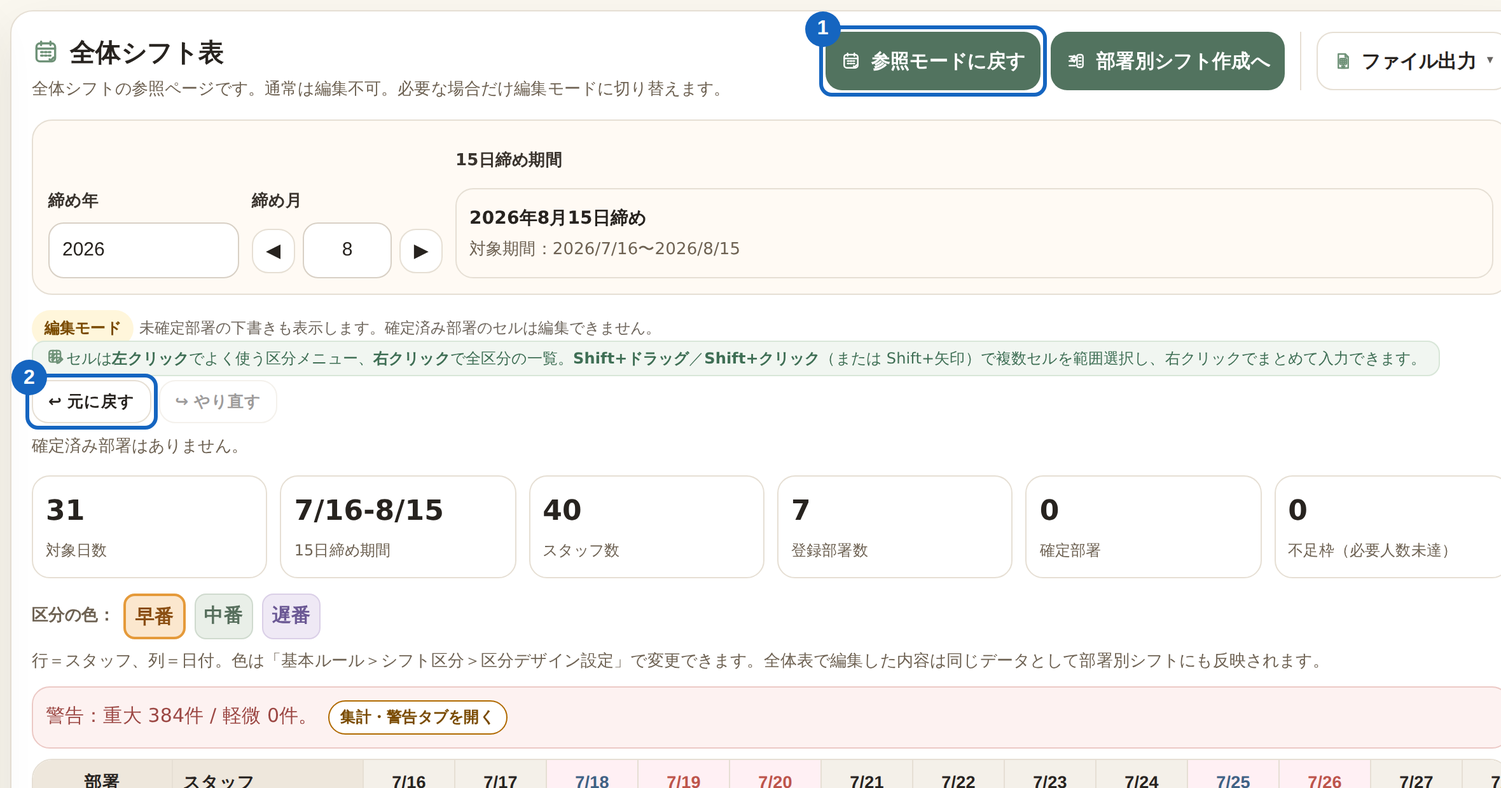
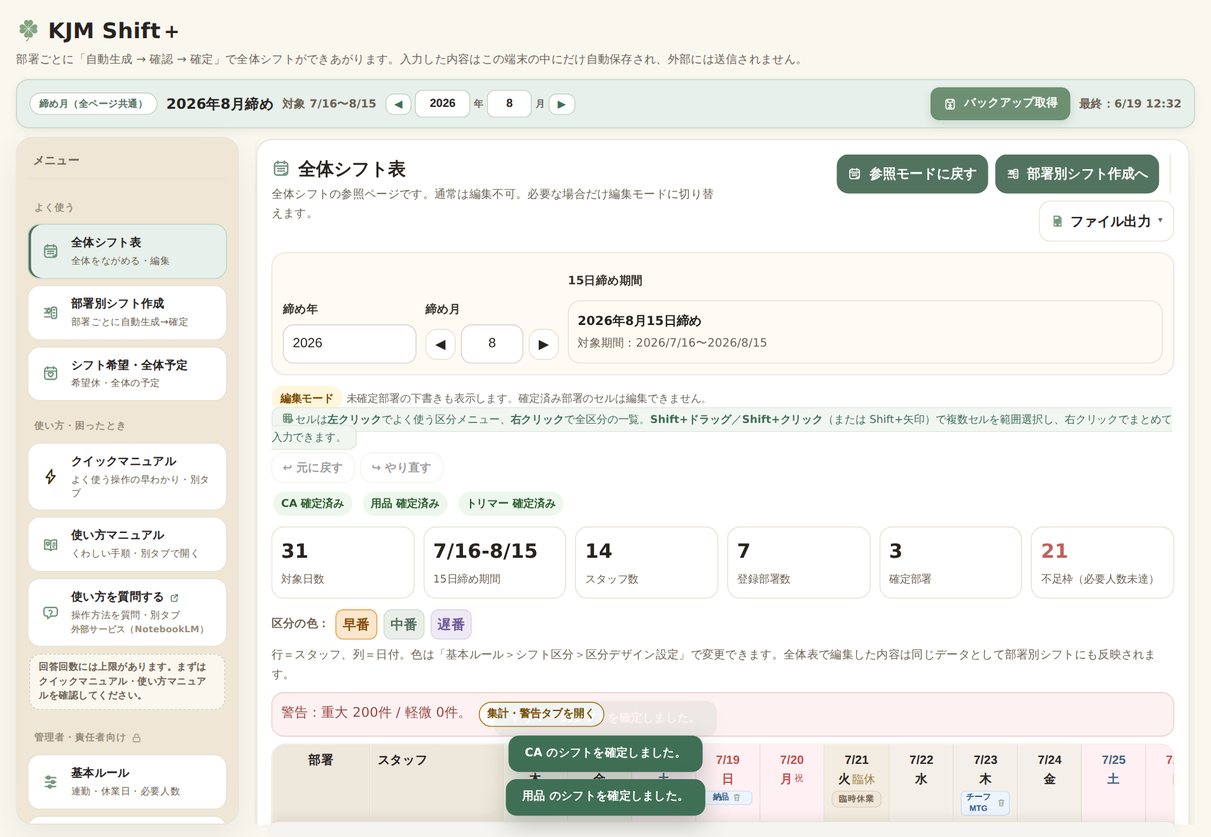
docs(manual): アプリ内マニュアル/クイックを最新UIに更新（上部固定バー・メニュー再編・自動生成）
最新の画面構成に合わせ、manual.html / quick.html の本文とスクリーンショットを更新。

【本文】
- 締め月：「左メニュー上部のバッジ」→「画面上部の作業バー」に統一（3章手順・4章・5章・18章・クイック手順1）
- バックアップ：作業バーの「バックアップ取得」を第一に案内し、フォルダ保存・復元・初期化は
  「バックアップ」画面、と役割を整理（16章・クイック手順8/店長手順3）。編集後の未取得表示にも言及
- 左メニュー：3グループ→4グループ。「管理者向け」→「管理者・責任者向け」、新グループ
  「使い方・困ったとき」（クイックマニュアル/使い方マニュアル/使い方を質問する）を追記（3章・5章）
- 文言統一：ユーザー向けの「自動作成」をすべて「自動生成」に（目次・7/10/11/12/18章・クイック）
- 13章：警告の「該当箇所へ移動」「未解消エラー」「許容済み（緑・件数除外）」を追記
- 8章：日付ヘッダーからの全体予定削除（編集モード）と、定期予定の「この日だけ削除」「元に戻す」を追記
- 1章トップ：作業バー＋左メニュー＋右操作画面の3領域・独立スクロールを説明

【スクリーンショット差し替え（assets/manual、サンプルデータ/9xxxx・PII無し）】
m-menu（4グループ・カードなし）, m-period（上部固定バー）, m-calendar（全体レイアウト）,
m-edit（編集モード）, m-deptbuild/q-deptgen（自動生成・確定・下書きチェック）,
q-check（セル内コメント＝朝そうじを下段に整列・早番は太枠でない・日付タグ削除アイコン）,
m-stats（未解消エラー・該当箇所へ移動）, m-event/m-closure/m-prefs, q-calendar-view, q-confirm,
m-appearance（早番＝オレンジ・規定は通常枠）。OS保存ダイアログ等の不変画面は据え置き

【ツール】scripts/capture-manual.js を追加（npm run screenshot:manual）。本体ロジックは変更なし。
全参照画像の存在・表示を確認、コンソールエラーなし。

Claude-Session: https://claude.ai/code/session_01VdcjUojQbh8dr2upE6sM1d

diff --git a/manual.html b/manual.html
@@ -69,7 +69,7 @@ ul.manList{margin:8px 0;padding-left:22px;font-size:15px;line-height:1.85}
         <a href="#man-8"><span class="mnNum">8</span>希望休・全体予定を入れる</a>
         <a href="#man-9"><span class="mnNum">9</span>臨時休業（店舗の休み）</a>
         <a href="#man-10"><span class="mnNum">10</span>部署別シフトを作る</a>
-        <a href="#man-11"><span class="mnNum">11</span>自動作成の便利な機能</a>
+        <a href="#man-11"><span class="mnNum">11</span>自動生成の便利な機能</a>
         <a href="#man-12"><span class="mnNum">12</span>部署別シフトを直す（編集）</a>
         <a href="#man-13"><span class="mnNum">13</span>警告を確認する</a>
         <a href="#man-14"><span class="mnNum">14</span>全体シフト表を見る・直す</a>
@@ -87,7 +87,7 @@ ul.manList{margin:8px 0;padding-left:22px;font-size:15px;line-height:1.85}
           <p class="manLead">KJM Shift＋は、お店のシフトを作るツールです。おもにこの5つができます。入力した内容はこの端末（パソコン）の中だけに自動で保存され、外部には送信されません。</p>
           <ul class="manList"><li>スタッフや希望休を登録する</li><li>部署ごとにシフトを自動で作る</li><li>作ったシフトを全体表で確認・修正する</li><li>シフトを印刷する</li><li>バックアップ（控え）を保存する</li></ul>
           <div class="manTip"><div class="manTipHead">自動保存です</div><p>「保存」ボタンを押さなくても、入力するたびに自動で保存されます。だからこそ、まちがいもすぐ保存されます。困ったら早めに直しましょう。</p></div>
-          <figure class="manFig"><img src="assets/manual/m-calendar.png" alt="全体シフト表の上部。編集モードにするボタンとファイル出力" loading="lazy" width="1180" height="488" style="max-width:1180px"><figcaption>これが最初に開く「全体シフト表」です。<b>①</b>編集モードにするボタン　<b>②</b>ファイル出力（印刷など）。※①と②の間にある「部署別シフト作成へ」は10章で使います。</figcaption></figure>
+          <figure class="manFig"><img src="assets/manual/m-calendar.png" alt="最初の画面。上部に作業バー（締め月・バックアップ）、左にメニュー、右に全体シフト表" loading="lazy" width="1180" style="max-width:1180px"><figcaption>これが最初に開く画面です。<b>上に作業バー（締め月・バックアップ）</b>、<b>左にメニュー</b>、<b>右に操作画面（全体シフト表）</b>が出ます。右画面の上に<b>①</b>編集モードにするボタン、<b>②</b>ファイル出力（印刷など）。左メニューと右画面はそれぞれスクロールできますが、作業バーは常に上に出ています。</figcaption></figure>
         </section>
 
         <section class="manChapter" id="man-2">
@@ -103,7 +103,7 @@ ul.manList{margin:8px 0;padding-left:22px;font-size:15px;line-height:1.85}
           <h3><span class="mnNum">3</span>毎月の流れ</h3>
           <p class="manLead">毎月の作業は、下の<b>手順1〜9</b>の順に進めます。番号（緑の丸）は「作業の順番」です。各手順の〔　〕内が、そのとき使う<b>左メニューの項目名</b>です（下の画像で位置を確認できます）。</p>
           <ol class="manSteps">
-            <li>締め月を確認する〔メニュー上部の締め月バッジ〕</li>
+            <li>締め月を確認する〔画面上部の作業バー〕</li>
             <li>（必要なら）スタッフ・基本ルールを確認する〔スタッフ／基本ルール〕</li>
             <li>希望休・全体予定を入れる〔シフト希望・全体予定〕</li>
             <li>部署別シフトを作成する〔部署別シフト作成〕</li>
@@ -113,28 +113,33 @@ ul.manList{margin:8px 0;padding-left:22px;font-size:15px;line-height:1.85}
             <li>印刷する〔全体シフト表 →ファイル出力〕</li>
             <li>バックアップを取る〔バックアップ〕</li>
           </ol>
-          <figure class="manFig"><img src="assets/manual/m-menu.png" alt="左メニュー。よく使う（全体シフト表・部署別シフト作成・シフト希望/全体予定・使い方/クイックマニュアル）／管理者向け（基本ルール・スタッフ・集計/警告・バックアップ）／店長のみ（OBIC連携用）" loading="lazy" width="266" height="1156" style="max-width:266px"><figcaption>左メニューです。上から<b>締め月バッジ</b>、<b>バックアップ取得</b>、そして<b>「よく使う」「管理者向け（鍵マーク）」「店長のみ（鍵マーク）」</b>の3グループに項目が並びます（鍵マークはチーフ以上・店長向け）。「使い方マニュアル」「クイックマニュアル」もこのメニューから開けます。今いる画面は色が濃くなります。</figcaption></figure>
+          <figure class="manFig"><img src="assets/manual/m-menu.png" alt="左メニュー。よく使う（全体シフト表・部署別シフト作成・シフト希望/全体予定）／使い方・困ったとき（クイックマニュアル・使い方マニュアル・使い方を質問する）／管理者・責任者向け（基本ルール・スタッフ・集計/警告・バックアップ）／店長のみ（OBIC連携用）" loading="lazy" width="300" style="max-width:300px"><figcaption>左メニューです。<b>「よく使う」「使い方・困ったとき」「管理者・責任者向け（鍵マーク）」「店長のみ（鍵マーク）」</b>の4グループに項目が並びます（鍵マークはチーフ以上・店長向け）。クイックマニュアル・使い方マニュアル・使い方を質問するは「使い方・困ったとき」にあります。<b>締め月とバックアップ取得は左メニューではなく、画面上部の作業バー</b>にあります。今いる画面は色が濃くなります。</figcaption></figure>
         </section>
 
         <section class="manChapter" id="man-4">
           <h3><span class="mnNum">4</span>締め月の見方</h3>
           <p class="manLead">このツールは「15日締め」です。作業の前に、画面の締め月が正しいか必ず確認します。</p>
           <ul class="manList"><li>8月度のシフト → 7月16日 〜 8月15日</li><li>9月度のシフト → 8月16日 〜 9月15日</li></ul>
-          <div class="manTip"><div class="manTipHead">月の変え方</div><p>左メニュー上の締め月バッジの <b>◀ ▶</b> で月を変えます。ここを変えると全部の画面が同じ月に切り替わります。</p></div>
-          <figure class="manFig"><img src="assets/manual/m-period.png" alt="締め月バッジ。前後の月へ動かす◀▶の矢印" loading="lazy" width="276" height="174" style="max-width:276px"><figcaption><b>①</b>締め月バッジ。◀ ▶ で締め月を前後に動かせます。</figcaption></figure>
+          <div class="manTip"><div class="manTipHead">月の変え方</div><p>画面上部の<b>作業バー</b>にある締め月の <b>◀ ▶</b> で月を変えます。ここを変えると全部の画面が同じ月に切り替わります（作業バーはどの画面でも上に出ています）。</p></div>
+          <figure class="manFig"><img src="assets/manual/m-period.png" alt="画面上部の作業バー。締め月・対象期間・前後へ動かす◀▶・バックアップ取得ボタン" loading="lazy" width="820" style="max-width:820px"><figcaption>画面上部の<b>作業バー</b>です。<b>①</b>締め月と対象期間　<b>②</b>◀ ▶ で前後の締め月へ　<b>③</b>右側の「バックアップ取得」（状態も表示）。どの画面でも常に表示されます。</figcaption></figure>
         </section>
 
         <section class="manChapter" id="man-5">
           <h3><span class="mnNum">5</span>画面の見方（左メニュー）</h3>
-          <p class="manLead">左のメニューで画面を切り替えます。メニューは<b>「よく使う」「管理者向け（鍵マーク）」「店長のみ（鍵マーク）」</b>の3つに分かれています。鍵マークの付いたグループは、おもにチーフ以上・店長が使う設定です。それぞれの役割はこちらです。</p>
+          <p class="manLead">左のメニューで画面を切り替えます。メニューは<b>「よく使う」「使い方・困ったとき」「管理者・責任者向け（鍵マーク）」「店長のみ（鍵マーク）」</b>の4つに分かれています。鍵マークの付いたグループは、おもにチーフ以上・店長が使う設定です。<b>締め月とバックアップ取得は、メニューではなく画面上部の作業バー</b>にあります。それぞれの役割はこちらです。</p>
           <p><b>よく使う</b></p>
           <ul class="manList">
             <li><b>全体シフト表</b>：全員のシフトをまとめて見る・直す</li>
             <li><b>部署別シフト作成</b>：部署ごとに自動で作って確定する</li>
             <li><b>シフト希望・全体予定</b>：希望休や店舗予定を入れる</li>
-            <li><b>使い方マニュアル／クイックマニュアル</b>：この説明ページを別タブで開く</li>
           </ul>
-          <p><b>管理者向け（鍵マーク・おもにチーフ以上）</b></p>
+          <p><b>使い方・困ったとき</b></p>
+          <ul class="manList">
+            <li><b>クイックマニュアル</b>：よく使う操作の早わかり（別タブ）</li>
+            <li><b>使い方マニュアル</b>：このくわしい説明ページ（別タブ）</li>
+            <li><b>使い方を質問する</b>：操作方法を質問できる外部サービス（NotebookLM・別タブ）</li>
+          </ul>
+          <p><b>管理者・責任者向け（鍵マーク・おもにチーフ以上）</b></p>
           <ul class="manList">
             <li><b>基本ルール</b>：連勤・必要人数・シフト区分・区分デザインなどの前提</li>
             <li><b>スタッフ</b>：スタッフの登録・変更</li>
@@ -145,7 +150,7 @@ ul.manList{margin:8px 0;padding-left:22px;font-size:15px;line-height:1.85}
           <ul class="manList">
             <li><b>【店長】OBIC連携用</b>：店長専用</li>
           </ul>
-          <figure class="manFig"><img src="assets/manual/m-menu.png" alt="左メニュー。よく使う／管理者向け（鍵マーク）／店長のみ（鍵マーク）のグループ" loading="lazy" width="266" height="1156" style="max-width:266px"><figcaption>左メニュー。上の一覧と同じ並びで、3つのグループに分かれています。今いる画面は色が濃くなります。</figcaption></figure>
+          <figure class="manFig"><img src="assets/manual/m-menu.png" alt="左メニュー。よく使う／使い方・困ったとき／管理者・責任者向け（鍵マーク）／店長のみ（鍵マーク）のグループ" loading="lazy" width="300" style="max-width:300px"><figcaption>左メニュー。上の一覧と同じ並びで、4つのグループに分かれています。今いる画面は色が濃くなります。</figcaption></figure>
         </section>
 
         <section class="manChapter" id="man-6">
@@ -159,7 +164,7 @@ ul.manList{margin:8px 0;padding-left:22px;font-size:15px;line-height:1.85}
 
         <section class="manChapter" id="man-7">
           <h3><span class="mnNum">7</span>基本ルールの設定（おもにチーフ以上）</h3>
-          <p class="manLead">自動作成の「前提」を決める画面です。ここがズレていると警告が増えます。上の「共通ルール／部署別ルール」タブで切り替えます。</p>
+          <p class="manLead">自動生成の「前提」を決める画面です。ここがズレていると警告が増えます。上の「共通ルール／部署別ルール」タブで切り替えます。</p>
           <ul class="manList"><li><b>共通ルール</b>：最大連勤、試行回数、全体の最低人数、定休日、スタッフタグ一覧、定期予定（毎月くり返す予定。<b>毎月／各月</b>、日付は<b>1〜31日・月末</b>から選べます）、<b>シフト区分</b>（区分名・時間帯・早中遅の割り当てを編集する「シフト区分を編集」と、色などをまとめて変える「区分デザイン設定」）</li><li><b>部署別ルール</b>：部署ごとの必要人数（早・中・遅／平日・土日祝）、<b>朝そうじタグの除外設定</b></li></ul>
           <figure class="manFig"><img src="assets/manual/m-basic-common.png" alt="基本ルール（共通）。共通/部署別タブ・最大連勤・タグ一覧・定期予定" loading="lazy" width="1180" height="680" style="max-width:1180px"><figcaption>基本ルール（共通）。<b>①</b>共通／部署別のタブ　<b>②</b>最大連勤など　<b>③</b>全体予定のタグ一覧（納品・SALEなど）　<b>④</b>定期予定（毎月くり返す予定）。</figcaption></figure>
           <figure class="manFig"><img src="assets/manual/m-basic-dept.png" alt="基本ルール（部署別）の画面。部署別ルールタブ、部署の選択、その部署の必要人数" loading="lazy" width="1162" height="640" style="max-width:1162px"><figcaption>基本ルール（部署別）。<b>①</b>部署別タブ　<b>②</b>部署を選ぶ　<b>③</b>その部署の必要人数。この下に<b>「朝そうじタグの除外設定」</b>もあります。</figcaption></figure>
@@ -180,6 +185,7 @@ ul.manList{margin:8px 0;padding-left:22px;font-size:15px;line-height:1.85}
           <div class="manTip"><div class="manTipHead">「勤務できない日」は</div><p>休みたい日も勤務できない日も、希望で<b>「休」</b>を選んで追加します。</p></div>
           <p><b>全体予定（お店全体の予定）</b></p>
           <figure class="manFig"><img src="assets/manual/m-event.png" alt="全体予定タブ。タグ・日付/曜日の指定・追加ボタン" loading="lazy" width="1180" height="221" style="max-width:1180px"><figcaption>全体予定タブ。<b>①</b>タグ（納品・SALEなど）　<b>②</b>日付か曜日で指定　<b>③</b>「＋ 追加」。登録するとシフト表の日付の下に出ます。</figcaption></figure>
+          <div class="manTip"><div class="manTipHead">日付の予定をその場で消す</div><p>全体予定タグは、シフト表の<b>日付ヘッダー</b>に出ます。<b>全体シフト表の編集モード</b>や<b>編集できる部署別シフト表</b>では、タグ横の<b>ごみ箱</b>で消せます（確認モーダルが出ます）。毎月くり返す<b>定期予定</b>のタグは「<b>この日だけ削除</b>」で、その日だけ非表示にできます（定期予定そのものは残ります）。個別に非表示にした予定は「全体予定」タブの一覧で確認でき、「元に戻す」で戻せます。</p></div>
         </section>
 
         <section class="manChapter" id="man-9">
@@ -193,15 +199,15 @@ ul.manList{margin:8px 0;padding-left:22px;font-size:15px;line-height:1.85}
         <section class="manChapter" id="man-10">
           <h3><span class="mnNum">10</span>部署別シフトを作る</h3>
           <p class="manLead">部署ごとに、シフトを自動で作ります。</p>
-          <ol class="manSteps"><li>左メニューの「部署別シフト作成」を押す</li><li>作る部署の<b>カード</b>を押して選ぶ</li><li>締め月が正しいか確認する</li><li>「この部署だけ自動作成」を押す</li><li>出てきたシフトと警告を確認する</li><li>問題なければ「確定」を押す</li></ol>
-          <figure class="manFig"><img src="assets/manual/m-deptbuild.png" alt="部署別シフト作成の画面。選択中の部署カード、この部署だけ自動作成ボタン、確定ボタン" loading="lazy" width="1200" height="563" style="max-width:1200px"><figcaption>部署別シフト作成。<b>①</b>選んだ部署のカード（押すと緑になり、下の作成欄がその部署になります）　<b>②</b>「この部署だけ自動作成」　<b>③</b>確認したら「確定」。</figcaption></figure>
+          <ol class="manSteps"><li>左メニューの「部署別シフト作成」を押す</li><li>作る部署の<b>カード</b>を押して選ぶ</li><li>締め月が正しいか確認する</li><li>「この部署だけ自動生成」を押す</li><li>出てきたシフトと警告を確認する</li><li>問題なければ「確定」を押す</li></ol>
+          <figure class="manFig"><img src="assets/manual/m-deptbuild.png" alt="部署別シフト作成の画面。選択中の部署カード、この部署だけ自動生成ボタン、確定ボタン" loading="lazy" width="1200" height="563" style="max-width:1200px"><figcaption>部署別シフト作成。<b>①</b>選んだ部署のカード（押すと緑になり、下の作成欄がその部署になります）　<b>②</b>「この部署だけ自動生成」　<b>③</b>確認したら「確定」。</figcaption></figure>
           <div class="manTip"><div class="manTipHead">「確定」と「再編集」</div><p>確定すると全体表に反映され、そのセルは編集できなくなります。一度確定すると同じボタンが<b>「再編集」</b>に変わり、押せばやり直せます（取り消せます）。<b>兼務スタッフ</b>は、所属・兼務先のうち<b>どれか1つの部署が確定された時点で、その人のシフトは全部署で編集できなくなります</b>（直すときは、確定した側を「再編集」に戻します）。</p></div>
           <div class="manTip"><div class="manTipHead">確定できないとき</div><p><b>「重大」な警告</b>が残っていると確定できません（「注意」だけなら確定できます）。なお「重大」は、確定ボタンの下や確定時のメッセージでは<b>「エラー」</b>と表示されます。内容を確認し、許容してよいかはチーフ以上が判断します（→ <a href="#man-13">13章「警告を確認する」</a>）。</p></div>
         </section>
 
         <section class="manChapter" id="man-11">
-          <h3><span class="mnNum">11</span>自動作成の便利な機能</h3>
-          <p class="manLead">作り直したいときに使えます。むずかしければ、まずは「自動作成」と「確定」だけで大丈夫です。</p>
+          <h3><span class="mnNum">11</span>自動生成の便利な機能</h3>
+          <p class="manLead">作り直したいときに使えます。むずかしければ、まずは「自動生成」と「確定」だけで大丈夫です。</p>
           <ul class="manList"><li><b>別パターン再生成</b>：同じ条件で別の案を作る</li><li><b>生成を中止</b>：作成中に止める（変更は反映されません）</li><li><b>前案に戻す／前案と比較</b>：作り直す前の案に戻したり、見比べたりできる</li><li><b>この締め月のシフトを空欄にする</b>：その部署のこの月を白紙に戻す</li></ul>
           <figure class="manFig"><img src="assets/manual/m-deptbuild2.png" alt="部署別シフト作成の補助ボタン。別パターン再生成・この締め月のシフトを空欄にする・ファイル出力" loading="lazy" width="613" height="179" style="max-width:613px"><figcaption>作り直し系のボタン。<b>①</b>別パターン再生成など　<b>②</b>「この締め月のシフトを空欄にする」やファイル出力。</figcaption></figure>
           <p><b>手で一気に入れたいとき（一括手動登録）</b></p>
@@ -210,7 +216,7 @@ ul.manList{margin:8px 0;padding-left:22px;font-size:15px;line-height:1.85}
 
         <section class="manChapter" id="man-12">
           <h3><span class="mnNum">12</span>部署別シフトを直す（編集）</h3>
-          <p class="manLead">自動作成したシフトは、<b>「部署別シフト作成」の確認表の上で直接</b>直せます。ふだんの修正はこの方法がおすすめです（全体シフト表へ移動する必要はありません）。直すのは<b>確定する前</b>。確定後に直したいときは、いったん「再編集」に戻します（→ <a href="#man-10">10章「部署別シフトを作る」</a>）。</p>
+          <p class="manLead">自動生成したシフトは、<b>「部署別シフト作成」の確認表の上で直接</b>直せます。ふだんの修正はこの方法がおすすめです（全体シフト表へ移動する必要はありません）。直すのは<b>確定する前</b>。確定後に直したいときは、いったん「再編集」に戻します（→ <a href="#man-10">10章「部署別シフトを作る」</a>）。</p>
           <ol class="manSteps">
             <li>「部署別シフト作成」で部署を選び、下の<b>確認表</b>を見る</li>
             <li>直したいマスを<b>左クリック</b>して、「休／有休／シフト区分（C・E・Gなど）／空欄にする」から選ぶ</li>
@@ -228,8 +234,8 @@ ul.manList{margin:8px 0;padding-left:22px;font-size:15px;line-height:1.85}
           <h3><span class="mnNum">13</span>警告を確認する（許容の判断はチーフ以上）</h3>
           <p class="manLead">「集計・警告」画面で、スタッフ別の回数と、不足・連勤・希望未達などの警告を確認できます。警告は<b>「重大」</b>と<b>「注意」</b>に分かれます。<b>「重大」は部署の確定をブロックします</b>（確定ボタンの下や確定時のメッセージでは「エラー」と表示）。<b>「注意」は確定をブロックしません</b>（残す場合も内容は必ず確認してください）。</p>
           <ul class="manList"><li>人数が足りない／連勤が多い／希望休が反映できていない／早番・遅番が足りない など</li></ul>
-          <div class="manWarn"><div class="manWarnHead">「許容」してよいかを決める人</div><p>警告の一覧で各行のチェックを付けると「許容（OKとする）」になります（確認ダイアログが出ます）。<b>これを判断するのはチーフ以上</b>です。一般スタッフだけで決めないでください。<b>「重大（エラー）」が残っていると確定できません</b>。迷ったら確定せずチーフ以上へ。許容は「集計・警告」画面でも、部署別シフト作成の「下書きチェック」でもできます。</p></div>
-          <figure class="manFig"><img src="assets/manual/m-stats.png" alt="集計・警告の画面。スタッフ別の回数表と、必要人数の不足状況" loading="lazy" width="1162" height="600" style="max-width:1162px"><figcaption>集計・警告。スタッフ別の回数表と、不足状況が出ます。さらに下に出る<b>警告の一覧</b>で、各行のチェックを付けると「許容」にできます（確認ダイアログあり。「全て／重大／注意／許容済み」で絞り込めます）。</figcaption></figure>
+          <div class="manWarn"><div class="manWarnHead">「許容」してよいかを決める人</div><p>警告の一覧で各行のチェックを付けると「許容（OKとする）」になります（確認ダイアログが出ます）。<b>これを判断するのはチーフ以上</b>です。一般スタッフだけで決めないでください。各警告の右の<b>「該当箇所へ移動」</b>を押すと、その警告のセルへ移動して印が付くので、どこが問題か分かります。まだ許容していない重大なエラー（<b>未解消エラー</b>）が残っていると確定できません。許容した項目は<b>「許容済み」</b>として緑で表示され、件数には数えません。迷ったら確定せずチーフ以上へ。許容は「集計・警告」画面でも、部署別シフト作成の「下書きチェック」でもできます。</p></div>
+          <figure class="manFig"><img src="assets/manual/m-stats.png" alt="集計・警告の画面。スタッフ別の回数表と、必要人数の不足状況" loading="lazy" width="1162" height="600" style="max-width:1162px"><figcaption>集計・警告。スタッフ別の回数表と、不足状況が出ます。さらに下に出る<b>警告の一覧</b>で、各行のチェックを付けると「許容」にできます（確認ダイアログあり）。各警告の<b>「該当箇所へ移動」</b>で対象セルへ飛べます。「全て／重大／注意／許容済み」で絞り込めます。</figcaption></figure>
         </section>
 
         <section class="manChapter" id="man-14">
@@ -261,7 +267,8 @@ ul.manList{margin:8px 0;padding-left:22px;font-size:15px;line-height:1.85}
             <p>作業した人が、毎回バックアップ（控え）を取ります。保存する場所はここです。</p>
             <p>保存先 → <span class="manFolder">デスクトップの「KJM Shift＋バックアップ」フォルダ</span></p>
           </div>
-          <ol class="manSteps"><li>左メニューの「バックアップ」を押す</li><li>緑の「バックアップ取得（JSON保存）」を押す</li><li><b>保存先を選ぶ画面</b>が出たら、<b>「KJM Shift＋バックアップ」フォルダ</b>を選んで「保存」を押す（下の画像）</li></ol>
+          <div class="manTip"><div class="manTipHead">かんたんなのは画面上部の作業バー</div><p>ふだんの取得は、<b>画面上部の作業バーの「バックアップ取得」</b>がいちばん早いです（どの画面からでも押せます）。シフトを直したあとは、作業バーが<b>「編集後のバックアップ未取得」</b>（やわらかい注意色）になります。取得すると<b>「最終：◯/◯ ◯◯:◯◯」</b>に変わります。保存先のフォルダを選びたいとき・<b>復元や初期化</b>は、左メニューの<b>「バックアップ」画面</b>を使います。</p></div>
+          <ol class="manSteps"><li>画面上部の作業バー、または左メニューの「バックアップ」画面で「バックアップ取得（JSON保存）」を押す</li><li><b>保存先を選ぶ画面</b>が出たら、<b>「KJM Shift＋バックアップ」フォルダ</b>を選んで「保存」を押す（下の画像）</li></ol>
           <figure class="manFig"><img src="assets/manual/m-backup.png" alt="バックアップ画面。バックアップ取得・バックアップから復元・すべて初期化のボタン" loading="lazy" width="1100" height="415" style="max-width:1100px"><figcaption>バックアップ画面。<b>①</b>緑の「バックアップ取得（JSON保存）」を押します（赤い「すべて初期化」「バックアップから復元」は押さない）。</figcaption></figure>
           <figure class="manFig"><img src="assets/manual/m-backup-save.png" alt="保存先に「KJM Shift＋バックアップ」フォルダを選んで保存する画面" loading="lazy" width="688" height="516" style="max-width:688px"><figcaption>保存先を選ぶ画面。<b>①</b>「KJM Shift＋バックアップ」フォルダを選び　<b>②</b>「保存」を押します。これで控えがそのフォルダに直接入ります。</figcaption></figure>
           <div class="manWarn"><div class="manWarnHead">大事なこと</div><ul class="manList"><li>データはこの端末の中だけ。控えはこのバックアップだけが頼りです。</li><li>ファイル名は基本そのまま（いつの控えか分からなくなるため）。</li><li>保存先を選ぶ画面が出ず、自動で「ダウンロード」フォルダに入る場合は、そのファイルを「KJM Shift＋バックアップ」フォルダへ移してください。</li></ul></div>
@@ -279,8 +286,8 @@ ul.manList{margin:8px 0;padding-left:22px;font-size:15px;line-height:1.85}
           <h3><span class="mnNum">18</span>トリマー月次表・サロンドワン連携</h3>
           <p class="manLead">トリマーを選ぶと、「部署別シフト作成」の下に1日〜月末のひと月分の表が出ます（<b>見るだけ</b>。直すときは部署別シフト作成（15日締め）の確認表から → <a href="#man-12">12章</a>）。年・月を選んで、印刷やファイル出力（CSV）ができます。トリマーは、このCSVを<b>サロンドワン</b>へ取り込みます。</p>
           <figure class="manFig"><img src="assets/manual/m-monthly.png" alt="トリマー月次表。1か月分の表と、年・月の選択、右上のファイル出力ボタン" loading="lazy" width="1162" height="916" style="max-width:1162px"><figcaption>トリマー月次表。年・月を選んで表示します。右上の「ファイル出力」から印刷・CSV・Excelが出せます。</figcaption></figure>
-          <div class="manWarn"><div class="manWarnHead">CSV出力の前に：月次表がすべて埋まっているか確認</div><p>月次表は<b>「1日〜月末」のカレンダー1か月分</b>を表示しますが、自動作成は<b>「15日締め（16日〜翌月15日）」</b>単位です。そのため月次表の1か月は<b>2つの締め月にまたがり</b>（前半と後半で別の締め月）、片方の締め月しか作成していないと<b>月次表は半分しか埋まりません</b>。CSV出力の前に、表の全日（1日〜月末）が埋まっているか必ず確認してください。</p><p>例：月次表で <b>6月（6/1〜6/30）</b> を出すには、前半 6/1〜6/15 を含む <b>6月度（5/16〜6/15）</b> と、後半 6/16〜6/30 を含む <b>7月度（6/16〜7/15）</b> の<b>両方</b>を作成済みにしておく必要があります（片方だけだと前半か後半が空欄になります）。</p></div>
-          <div class="manTip"><div class="manTipHead">月次表の対象月は個別に選びます</div><p>月次表の<b>年・月</b>は、左メニュー上部の締め月（◀ ▶）とは<b>別に</b>、この月次表で個別に選びます。締め月を変えても、月次表は自動では切り替わりません。</p></div>
+          <div class="manWarn"><div class="manWarnHead">CSV出力の前に：月次表がすべて埋まっているか確認</div><p>月次表は<b>「1日〜月末」のカレンダー1か月分</b>を表示しますが、自動生成は<b>「15日締め（16日〜翌月15日）」</b>単位です。そのため月次表の1か月は<b>2つの締め月にまたがり</b>（前半と後半で別の締め月）、片方の締め月しか作成していないと<b>月次表は半分しか埋まりません</b>。CSV出力の前に、表の全日（1日〜月末）が埋まっているか必ず確認してください。</p><p>例：月次表で <b>6月（6/1〜6/30）</b> を出すには、前半 6/1〜6/15 を含む <b>6月度（5/16〜6/15）</b> と、後半 6/16〜6/30 を含む <b>7月度（6/16〜7/15）</b> の<b>両方</b>を作成済みにしておく必要があります（片方だけだと前半か後半が空欄になります）。</p></div>
+          <div class="manTip"><div class="manTipHead">月次表の対象月は個別に選びます</div><p>月次表の<b>年・月</b>は、画面上部の作業バーの締め月（◀ ▶）とは<b>別に</b>、この月次表で個別に選びます。締め月を変えても、月次表は自動では切り替わりません。</p></div>
           <p><b>サロンドワンへの取り込み手順</b></p>
           <div class="manTip"><div class="manTipHead">先に「確定」まで</div><p>取り込む前に、<b>10章のとおりトリマーのシフトを作って「確定」</b>しておきます。</p></div>
           <ol class="manSteps">

diff --git a/scripts/capture-manual.js b/scripts/capture-manual.js
@@ -1,0 +1,160 @@
+#!/usr/bin/env node
+/**
+ * KJM Shift＋ アプリ内マニュアル用スクリーンショット撮影（最新UI）。
+ * - 新規コンテキスト・空localStorage・ダミーデータ（サンプル/9xxxx）のみ。実データ不使用。
+ * - 出力: assets/manual/<name>.png（既存を上書き）
+ * 使い方: node scripts/capture-manual.js [--only=name1,name2]
+ *
+ * 注: 画面は100vhで左メニュー/右操作画面が内部スクロールするため、パネル全体を切らずに撮る
+ *     ショットは relax()（内部スクロール一時解除）してから要素を撮影する。
+ */
+'use strict';
+const fs = require('fs');
+const path = require('path');
+const ROOT = path.resolve(__dirname, '..');
+const APP_URL = 'file://' + path.join(ROOT, 'index.html');
+const OUT = path.join(ROOT, 'assets', 'manual');
+const VW = { width: 1360, height: 940 };
+
+function loadChromium() {
+  try { return require('playwright').chromium; }
+  catch (e) { const g = require('child_process').execSync('npm root -g').toString().trim(); return require(path.join(g, 'playwright')).chromium; }
+}
+async function gotoClean(page) {
+  await page.goto(APP_URL, { waitUntil: 'load' });
+  await page.evaluate(() => { try { localStorage.clear(); } catch (e) {} });
+  await page.reload({ waitUntil: 'load' });
+  await page.evaluate(() => { try { const y = document.getElementById('menuYear'), m = document.getElementById('menuMonth'); if (y && m) { y.value = '2026'; m.value = '8'; setMenuPeriodFromInputs(); } } catch (e) {} });
+  await page.waitForTimeout(250);
+}
+async function seed(page) {
+  await page.evaluate(() => {
+    const mk = (n, dept, opt = {}) => ({ id: 'dummy' + n, name: 'サンプル ' + n, sei: 'サンプル', mei: String(n), seiKana: 'さんぷる', meiKana: String(n), kana: 'さんぷる ' + n, empNo: String(90000 + n), dept, tags: opt.tags || [], skill: '', offWds: opt.offWds || [], offHolidays: !!opt.offHolidays, useFixedOff: true, useWeeklyLimit: true, weeklyAvailableDays: 5, canShifts: ['C', 'E', 'G'], supportDepts: opt.supportDepts || [dept], minDays: 0, maxDays: 0 });
+    let n = 0; const staff = [];
+    const add = (dept, count, opt) => { for (let i = 0; i < count; i++) { n++; staff.push(mk(n, dept, (i === 0 ? opt : undefined) || {})); } };
+    add('店長', 1); add('CA', 3, { tags: ['副店長'] }); add('管理', 2); add('SCA', 2); add('用品', 2);
+    add('トリマー', 3, { tags: ['チーフ'], offWds: [2], offHolidays: true, supportDepts: ['トリマー', '用品'] }); add('トレーナー', 1);
+    state.staff = staff;
+    state.attempts = 60; // 撮影用に試行回数を抑えて高速化（結果品質は不問）
+    DEPTS.forEach((d) => { state.deptNeeds[d] = { week: { E: 1, M: 1, L: 1 }, hol: { E: 1, M: 1, L: 1 } }; });
+    const days = getDays();
+    if (!state.scheduleTags.includes('チーフMTG')) state.scheduleTags.push('チーフMTG');
+    if (!state.scheduleTags.includes('納品')) state.scheduleTags.push('納品');
+    state.recurringSchedules = [{ id: 'rm', tag: 'チーフMTG', axis: 'wd', wds: [days[0] ? days[0].wd : 2], occ: ['every'] }];
+    const pk = periodKey();
+    state.scheduleEventsByPeriod[pk] = [{ id: 'ev1', tag: '納品', axis: 'date', date: (days[3] || days[0]).key }];
+    state.closures = state.closures || {}; if (days[5]) state.closures[days[5].key] = true;
+    normalizeState(); persist(); renderInputs(); renderAll();
+  });
+  await page.waitForTimeout(250);
+}
+async function genDepts(page, list) {
+  for (const d of list) {
+    await page.evaluate(async (dept) => { try { await generateDeptSchedule(dept); } catch (e) {} renderAll(); }, d);
+    await page.waitForTimeout(150);
+  }
+}
+async function confirmDepts(page, list) {
+  await page.evaluate((list) => { window.isWarningAllowed = () => true; list.forEach((d) => { try { setActiveBuildDept(d); if (!confirmedDepts[d]) toggleDeptConfirm(d); } catch (e) {} }); persist(); renderAll(); }, list);
+  await page.waitForTimeout(250);
+}
+async function show(page, panel) { await page.evaluate((p) => { showMenuPanel(p); const ca = document.querySelector('.contentArea'); if (ca) ca.scrollTop = 0; }, panel); await page.waitForTimeout(300); }
+const RELAX = 'body{height:auto!important;overflow:visible!important}.appLayout{grid-template-rows:auto!important;min-height:0!important;align-items:start!important}.menuRail{overflow:visible!important;max-height:none!important}.contentArea{overflow:visible!important;max-height:none!important}';
+async function relax(page, on) {
+  await page.evaluate(({ on, css }) => { let el = document.getElementById('__relax'); if (on) { if (!el) { el = document.createElement('style'); el.id = '__relax'; document.head.appendChild(el); } el.textContent = css; } else if (el) el.remove(); }, { on, css: RELAX });
+  await page.waitForTimeout(150);
+}
+async function snapEl(page, sel, file) { const loc = page.locator(sel).first(); await loc.scrollIntoViewIfNeeded().catch(() => {}); await loc.screenshot({ path: path.join(OUT, file), type: 'png' }); console.log('OK  ', file, '<-', sel); }
+async function snapRange(page, selTop, selBottom, file, padX = 8) {
+  const clip = await page.evaluate(({ a, b, padX }) => {
+    const ea = document.querySelector(a), eb = document.querySelector(b); if (!ea || !eb) return null;
+    const ra = ea.getBoundingClientRect(), rb = eb.getBoundingClientRect();
+    const x = Math.max(0, Math.min(ra.left, rb.left) - padX), top = ra.top - padX;
+    const right = Math.max(ra.right, rb.right) + padX, bottom = rb.bottom + padX;
+    return { x, y: top, width: right - x, height: bottom - top };
+  }, { a: selTop, b: selBottom, padX });
+  if (!clip) throw new Error('snapRange selectors not found: ' + selTop + ' / ' + selBottom);
+  await page.screenshot({ path: path.join(OUT, file), type: 'png', clip });
+  console.log('OK  ', file, '(range)', selTop, '->', selBottom);
+}
+async function snapViewport(page, file, h) { await page.screenshot({ path: path.join(OUT, file), type: 'png', clip: { x: 0, y: 0, width: VW.width, height: h || VW.height } }); console.log('OK  ', file, '(viewport)'); }
+
+async function main() {
+  const onlyArg = (process.argv.find((a) => a.startsWith('--only=')) || '').split('=')[1];
+  const only = onlyArg ? new Set(onlyArg.split(',')) : null;
+  const want = (n) => !only || only.has(n);
+  const chromium = loadChromium();
+  const browser = await chromium.launch({ headless: true });
+  const context = await browser.newContext({ viewport: VW, deviceScaleFactor: 1.4 });
+  const page = await context.newPage();
+  page.on('dialog', (d) => d.dismiss().catch(() => {}));
+  fs.mkdirSync(OUT, { recursive: true });
+  await gotoClean(page);
+  await seed(page);
+
+  // 左メニュー（最新グループ）／上部固定バー
+  if (want('m-menu')) { await show(page, 'calendar'); await relax(page, true); await snapEl(page, '.menuRail', 'm-menu.png'); await relax(page, false); }
+  if (want('m-period')) { await page.evaluate(() => markBackupTaken()); await page.setViewportSize({ width: 1060, height: 300 }); await page.waitForTimeout(200); await snapEl(page, '#globalBar .gbInner', 'm-period.png'); await page.setViewportSize(VW); }
+
+  // 区分デザイン設定（早番＝オレンジ・規定は太枠でない）
+  if (want('m-appearance')) {
+    await page.evaluate(() => { shiftAppearanceOpen = true; showMenuPanel('basic'); renderInputs(); renderAll(); });
+    await page.waitForTimeout(300); await relax(page, true);
+    await snapEl(page, '.sapPanel', 'm-appearance.png'); await relax(page, false);
+  }
+
+  // 全体予定タブ（タグ・個別除外）／臨時休業
+  if (want('m-event') || want('m-closure')) {
+    await page.evaluate(() => { showMenuPanel('prefs'); setPrefsTab('event'); renderInputs(); renderAll(); });
+    await page.waitForTimeout(300); await relax(page, true);
+    if (want('m-event')) await snapEl(page, '.menuPanel[data-panel="prefs"] .prefAddBox', 'm-event.png');
+    if (want('m-closure')) { const ok = await page.evaluate(() => { const h = [...document.querySelectorAll('.menuPanel[data-panel="prefs"] h3')].find(e => e.textContent.includes('臨時休業')); if (h) { h.closest('.prefAddBox')?.setAttribute('data-cap', 'closure'); return true; } return false; }); await snapEl(page, ok ? '[data-cap="closure"]' : '.menuPanel[data-panel="prefs"] .prefAddBox', 'm-closure.png'); }
+    await relax(page, false);
+  }
+
+  // シフト希望（request タブ）。個人を選ばないと追加フォーム(.prefAddBox)が出ないため、トリマーを選ぶ
+  if (want('m-prefs')) { await page.evaluate(() => { const st = state.staff.find(s => s.dept === 'トリマー') || state.staff[0]; activePrefDept = st.dept; activePrefStaff = st.name; showMenuPanel('prefs'); setPrefsTab('request'); renderInputs(); renderAll(); }); await page.waitForTimeout(300); await relax(page, true); await snapEl(page, '.menuPanel[data-panel="prefs"] .prefAddBox', 'm-prefs.png'); await relax(page, false); }
+
+  // 部署別シフト作成（トリマーを生成）
+  await page.evaluate(() => { showMenuPanel('deptBuild'); setActiveBuildDept('トリマー'); renderAll(); });
+  await page.waitForTimeout(200);
+  await genDepts(page, ['トリマー', 'CA', '用品']);
+  if (want('m-deptbuild') || want('q-deptgen')) {
+    await page.evaluate(() => { showMenuPanel('deptBuild'); setActiveBuildDept('トリマー'); renderAll(); });
+    await page.waitForTimeout(250); await relax(page, true);
+    // 下のプレビュー表・候補表・月次などを隠し、カード＋作成/確定（＋下書きチェック）に絞って撮る
+    await page.evaluate(() => { let el = document.getElementById('deptShiftPreview'); while (el) { const n = el.nextElementSibling; el.style.display = 'none'; el = n; } });
+    await page.waitForTimeout(100);
+    if (want('m-deptbuild')) await snapEl(page, '#deptBuildPanel', 'm-deptbuild.png');
+    if (want('q-deptgen')) await snapEl(page, '#deptBuildPanel', 'q-deptgen.png');
+    await page.evaluate(() => { showMenuPanel('deptBuild'); setActiveBuildDept('トリマー'); renderAll(); }); // 元に戻す
+    await relax(page, false);
+  }
+  if (want('q-check')) { await page.evaluate(() => { setActiveBuildDept('トリマー'); renderAll(); }); await page.waitForTimeout(250); await snapEl(page, '#deptShiftPreview .deptPvWrap', 'q-check.png'); }
+  if (want('q-confirm')) { await page.evaluate(() => { setActiveBuildDept('トリマー'); renderAll(); }); await page.waitForTimeout(200); await snapEl(page, '.buildCommonRow', 'q-confirm.png'); }
+
+  // 集計・警告（必要人数を少し高くして既存ドラフトに不足警告を出す。relaxせず右画面のスクロール内を撮る＝サイズ過大を防ぐ）
+  if (want('m-stats')) {
+    await page.evaluate(() => { state.deptNeeds['用品'] = { week: { E: 2, M: 1, L: 2 }, hol: { E: 2, M: 1, L: 2 } }; state.globalNeeds = { week: { E: 3, L: 3 }, hol: { E: 3, L: 3 } }; normalizeState(); persist(); showMenuPanel('stats'); renderAll(); const ca = document.querySelector('.contentArea'); if (ca) ca.scrollTop = 0; });
+    await page.waitForTimeout(300);
+    await snapEl(page, '.contentArea', 'm-stats.png');
+  }
+
+  // 確定して全体シフト表（参照／編集）。必要人数を既定に戻し、バックアップ取得済みにして見た目を整える
+  if (want('m-calendar') || want('m-edit') || want('q-calendar-view')) {
+    // 撮影用：未生成の部署による「不足」表示を消すため必要人数を0に（見た目を整えるためだけ）
+    await page.evaluate(() => { DEPTS.forEach((d) => { state.deptNeeds[d] = { week: { E: 0, M: 0, L: 0 }, hol: { E: 0, M: 0, L: 0 } }; }); state.globalNeeds = { week: { E: 0, L: 0 }, hol: { E: 0, L: 0 } }; normalizeState(); persist(); });
+    await confirmDepts(page, ['トリマー', 'CA', '用品']);
+    await page.evaluate(() => markBackupTaken());
+    await page.evaluate(() => { showMenuPanel('calendar'); if (typeof calendarEditMode !== 'undefined' && calendarEditMode) toggleCalendarEditMode(); renderAll(); const ca = document.querySelector('.contentArea'); if (ca) ca.scrollTop = 0; });
+    await page.waitForTimeout(300);
+    if (want('m-calendar')) await snapEl(page, 'body', 'm-calendar.png');
+    if (want('q-calendar-view')) { await relax(page, true); await snapEl(page, '#viewCalendar .tableWrap', 'q-calendar-view.png'); await relax(page, false); }
+    if (want('m-edit')) { await page.evaluate(() => { toggleCalendarEditMode(); renderAll(); const ca = document.querySelector('.contentArea'); if (ca) ca.scrollTop = 0; }); await page.waitForTimeout(300); await snapEl(page, 'body', 'm-edit.png'); }
+  }
+
+  console.log('done');
+  await context.close();
+  await browser.close();
+}
+main().catch((e) => { console.error(e && e.message ? e.message : e); process.exit(1); });

diff --git a/quick.html b/quick.html
@@ -78,12 +78,12 @@ body{margin:0;font-family:"BIZ UDPGothic","Hiragino Sans","Yu Gothic UI","Noto S
 
   <section class="qflow" id="q-basic" style="--role:#52735F;--roleD:#3f6f55">
     <div class="qflowHead"><img class="qflowIcon" src="assets/icons/svg/person.svg" alt=""><div><div class="qflowTitle">基本（全員）</div><div class="qflowSub">毎月のシフト作成は、この8ステップだけ。上から順に進めれば完成します。</div></div></div>
-    <div class="qchips"><span class="qchip">締め月を確認</span><span class="qchipArrow">›</span><span class="qchip">希望休</span><span class="qchipArrow">›</span><span class="qchip">全体予定</span><span class="qchipArrow">›</span><span class="qchip">自動作成</span><span class="qchipArrow">›</span><span class="qchip">確認</span><span class="qchipArrow">›</span><span class="qchip">編集</span><span class="qchipArrow">›</span><span class="qchip">確定</span><span class="qchipArrow">›</span><span class="qchip">バックアップ</span></div>
+    <div class="qchips"><span class="qchip">締め月を確認</span><span class="qchipArrow">›</span><span class="qchip">希望休</span><span class="qchipArrow">›</span><span class="qchip">全体予定</span><span class="qchipArrow">›</span><span class="qchip">自動生成</span><span class="qchipArrow">›</span><span class="qchip">確認</span><span class="qchipArrow">›</span><span class="qchip">編集</span><span class="qchipArrow">›</span><span class="qchip">確定</span><span class="qchipArrow">›</span><span class="qchip">バックアップ</span></div>
     <div class="qsteps">
       <div class="qstep">
         <div class="qstepHead"><span class="qnum">1</span><span class="qact">操作対象の月（締め月）を確認する</span></div>
-        <p class="qdesc">左メニューの上にある締め月バッジが、作りたい月になっているか確認します。ちがうときは <span class="qkbd">◀</span> <span class="qkbd">▶</span> で合わせます。<br><span class="qhint">※このツールは「15日締め」。例：<b>8月度＝7/16〜8/15</b>。作りたい月度の「◯月締め」に合わせます。</span></p>
-        <figure class="qfig"><img src="assets/manual/m-period.png" alt="締め月バッジ" loading="lazy" width="276" height="174" style="max-width:276px"></figure>
+        <p class="qdesc">画面上部の<b>作業バー</b>にある締め月が、作りたい月になっているか確認します。ちがうときは <span class="qkbd">◀</span> <span class="qkbd">▶</span> で合わせます。<br><span class="qhint">※このツールは「15日締め」。例：<b>8月度＝7/16〜8/15</b>。作りたい月度の「◯月締め」に合わせます。作業バーはどの画面でも上に出ています。</span></p>
+        <figure class="qfig"><img src="assets/manual/m-period.png" alt="画面上部の作業バー。締め月・対象期間・◀▶・バックアップ取得" loading="lazy" width="820" style="max-width:820px"></figure>
       </div>
       <div class="qstep">
         <div class="qstepHead"><span class="qnum">2</span><span class="qact">希望休を登録する（あれば）</span></div>
@@ -97,8 +97,8 @@ body{margin:0;font-family:"BIZ UDPGothic","Hiragino Sans","Yu Gothic UI","Noto S
       </div>
       <div class="qstep">
         <div class="qstepHead"><span class="qnum">4</span><span class="qact">部署別に自動生成する</span></div>
-        <p class="qdesc">「部署別シフト作成」を開き、<b>①</b>作る部署のカードを選んで <b>②</b>「この部署だけ自動作成」を押します。（確定はまだ。手順7で行います）</p>
-        <figure class="qfig"><img src="assets/manual/q-deptgen.png" alt="部署のカードを選び自動作成を押す" loading="lazy" width="1200" height="479" style="max-width:1200px"></figure>
+        <p class="qdesc">「部署別シフト作成」を開き、<b>①</b>作る部署のカードを選んで <b>②</b>「この部署だけ自動生成」を押します。（確定はまだ。手順7で行います）</p>
+        <figure class="qfig"><img src="assets/manual/q-deptgen.png" alt="部署のカードを選び自動生成を押す" loading="lazy" width="1200" height="479" style="max-width:1200px"></figure>
       </div>
       <div class="qstep">
         <div class="qstepHead"><span class="qnum">5</span><span class="qact">生成されたシフトを確認する</span></div>
@@ -117,7 +117,7 @@ body{margin:0;font-family:"BIZ UDPGothic","Hiragino Sans","Yu Gothic UI","Noto S
       </div>
       <div class="qstep">
         <div class="qstepHead"><span class="qnum">8</span><span class="qact">バックアップを取る</span></div>
-        <p class="qdesc">「バックアップ」を開き、<b>緑の「バックアップ取得（JSON保存）」</b>を押します。<b>保存先を選ぶ画面</b>が出たら、<b>デスクトップの「KJM Shift＋バックアップ」フォルダ</b>を選んで「保存」を押します（下の画像）。<br><b>同じ画面の赤い「すべて初期化」と「バックアップから復元」は押さないでください</b>（押すのは緑の取得だけ）。</p>
+        <p class="qdesc">いちばん早いのは、<b>画面上部の作業バーの「バックアップ取得」</b>です（どの画面からでもOK。シフトを直すと「編集後のバックアップ未取得」と出ます）。または「バックアップ」画面の<b>緑の「バックアップ取得（JSON保存）」</b>。<b>保存先を選ぶ画面</b>が出たら、<b>デスクトップの「KJM Shift＋バックアップ」フォルダ</b>を選んで「保存」を押します（下の画像）。<br><b>「バックアップ」画面の赤い「すべて初期化」と「バックアップから復元」は押さないでください</b>（押すのは緑の取得だけ）。</p>
         <figure class="qfig"><img src="assets/manual/q-backup-get.png" alt="バックアップ取得ボタン" loading="lazy" width="615" height="96" style="max-width:615px"></figure><figure class="qfig"><img src="assets/manual/m-backup-save.png" alt="保存先に「KJM Shift＋バックアップ」フォルダを選んで保存" loading="lazy" width="688" height="516" style="max-width:688px"></figure>
       </div>
     </div>
@@ -183,7 +183,7 @@ body{margin:0;font-family:"BIZ UDPGothic","Hiragino Sans","Yu Gothic UI","Noto S
       </div>
       <div class="qstep">
         <div class="qstepHead"><span class="qnum">3</span><span class="qact">バックアップを取る</span></div>
-        <p class="qdesc">「バックアップ」→<b>緑の「バックアップ取得（JSON保存）」</b>（赤枠）。保存ファイルを「KJM Shift＋バックアップ」フォルダへ。<br>※赤い「すべて初期化」「バックアップから復元」は押さないでください。</p>
+        <p class="qdesc">画面上部の作業バーの<b>「バックアップ取得」</b>、または「バックアップ」画面の<b>緑の「バックアップ取得（JSON保存）」</b>（赤枠）。保存ファイルを「KJM Shift＋バックアップ」フォルダへ。<br>※「バックアップ」画面の赤い「すべて初期化」「バックアップから復元」は押さないでください。</p>
         <figure class="qfig"><img src="assets/manual/q-backup-get.png" alt="バックアップ取得ボタン" loading="lazy" width="615" height="96" style="max-width:615px"></figure>
       </div>
       <div class="qstep">
